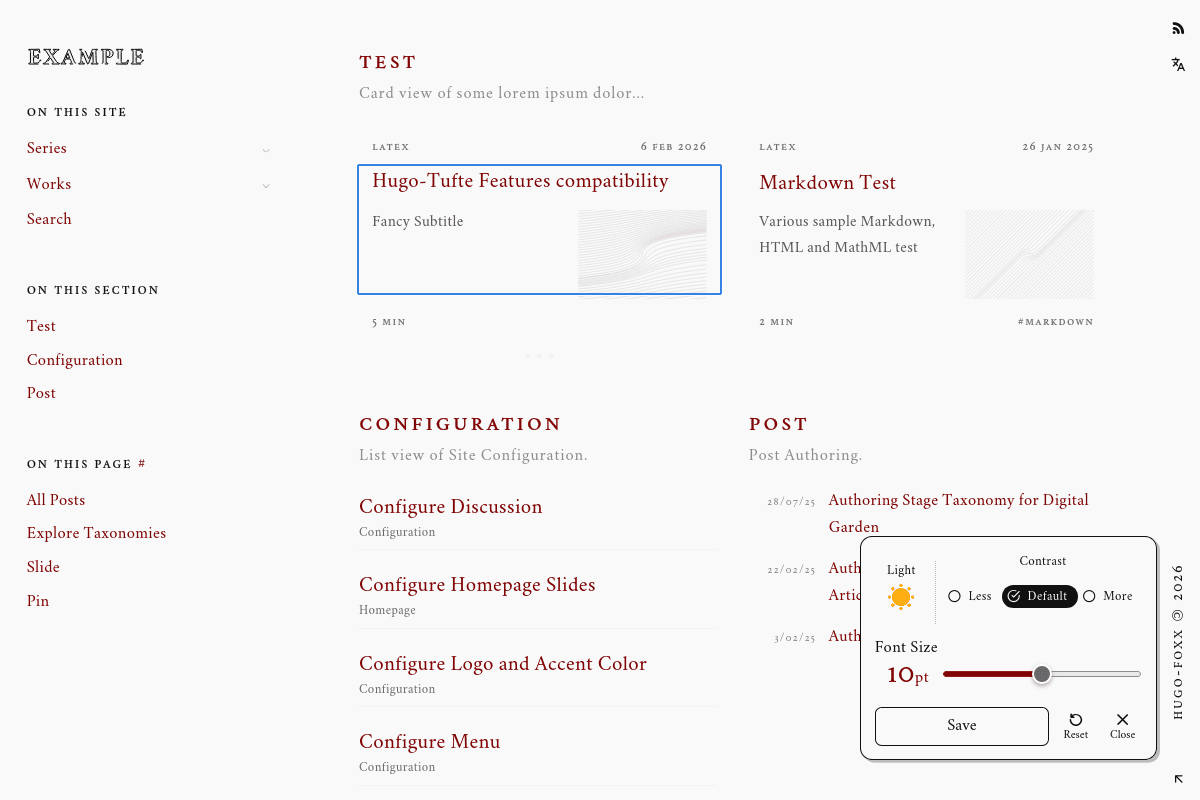
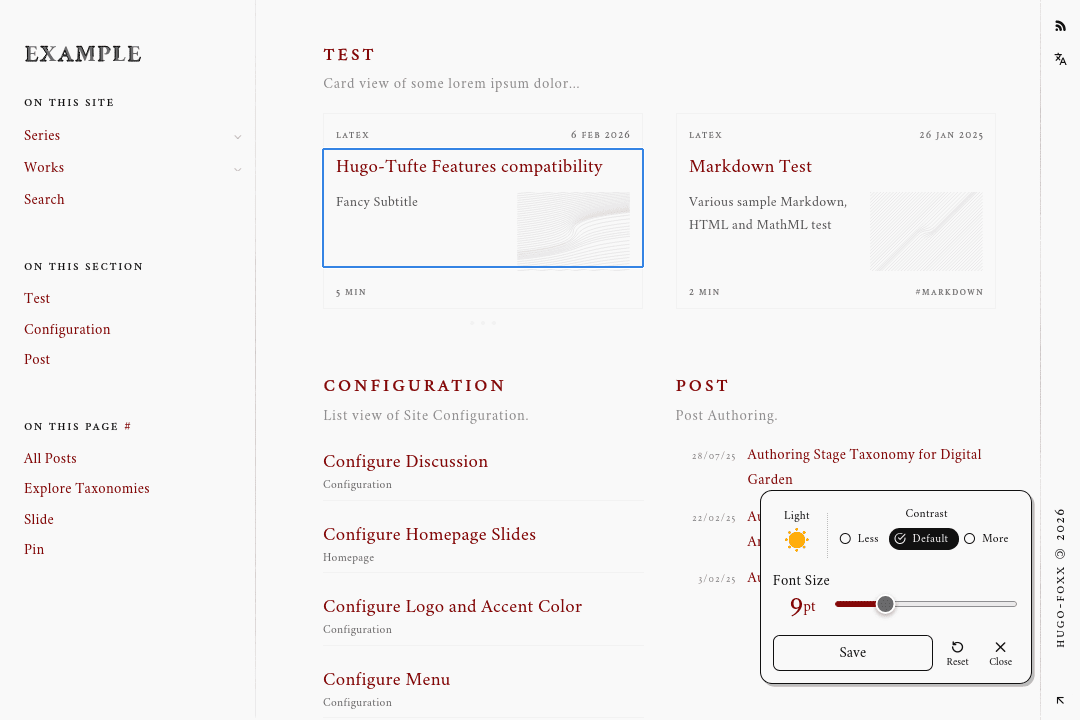
update thumbnail

diff --git a/README.md b/README.md
@@ -22,8 +22,8 @@ Demosite: [https://foxihd.github.io/hugo-foxx/en/](https://foxihd.github.io/hugo
 >
 > Please feel free to contribute as well!
 
-![Home page with posts listing on 1200px viewport.](https://raw.githubusercontent.com/foxihd/hugo-foxx/main/images/tn.png)
-***Figure 1.*** Home page with posts listing on 1200px viewport.
+![Home page with posts listing on 1080px viewport](https://raw.githubusercontent.com/foxihd/hugo-foxx/main/images/tn.png)
+***Figure 1.*** Home page with posts listing on 1080px viewport .
 
 > [!TIP]
 > Always keep hugo-foxx up-to-date for better user experience, maximum performance and resource efficiency, by run the following command:  
